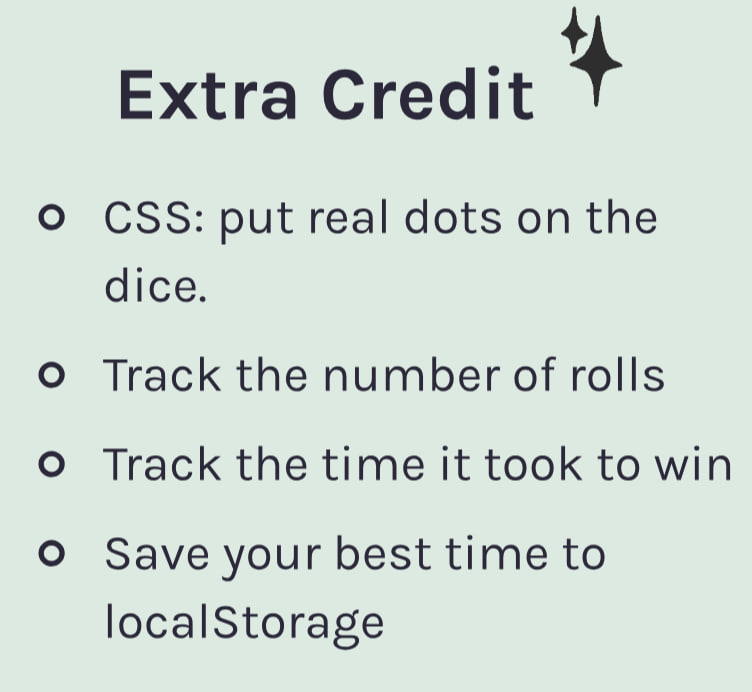
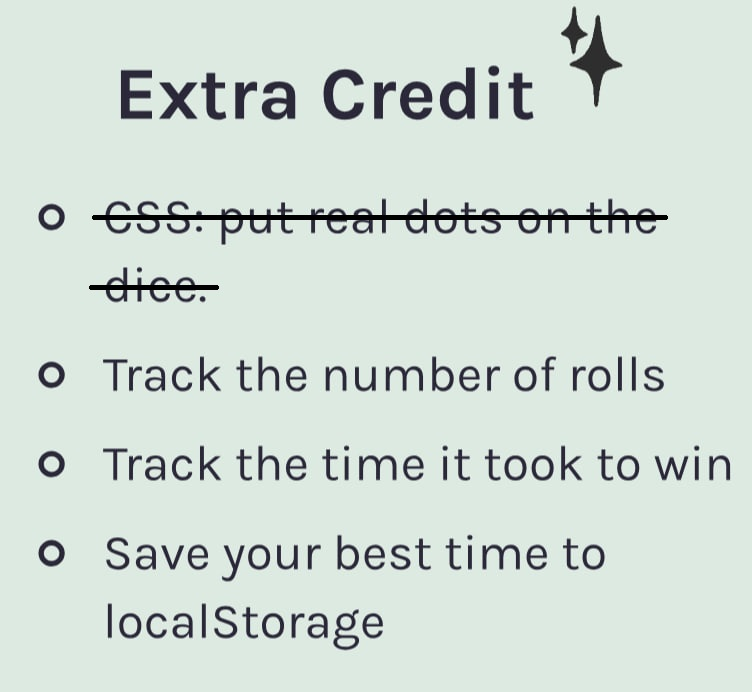
Add die faces on dice

Changed region(s): [[0.1223, 0.3035, 0.887, 0.3338], [0.1223, 0.3945, 0.3059, 0.4249]]

diff --git a/public/style.css b/public/style.css
@@ -7,6 +7,7 @@ body {
     background-color: #0B2434;
     padding: 20px;
     font-family: 'Karla', sans-serif;
+    
 }
 
 main {
@@ -49,10 +50,38 @@ main {
     justify-content: center;
     align-items: center;
     cursor: pointer;
+
 }
 
-.die-num {
-    font-size: 2rem;
+.die1 {
+    background: url('./content/dice-1-svgrepo-com.svg') no-repeat;
+    background-size: cover;
+    background-position: center center; 
+}
+.die2 {
+    background: url('./content/dice-2-svgrepo-com.svg') no-repeat;
+    background-size: cover;
+    background-position: center center; 
+}
+.die3 {
+    background: url('./content/dice-3-svgrepo-com.svg') no-repeat;
+    background-size: cover;
+    background-position: center center; 
+}
+.die4 {
+    background: url('./content/dice-4-svgrepo-com.svg') no-repeat;
+    background-size: cover;
+    background-position: center center; 
+}
+.die5 {
+    background: url('./content/dice-5-svgrepo-com.svg') no-repeat;
+    background-size: cover;
+    background-position: center center; 
+}
+.die6 {
+    background: url('./content/dice-6-svgrepo-com.svg') no-repeat;
+    background-size: cover;
+    background-position: center center; 
 }
 
 .roll-dice {

diff --git a/src/Die.js b/src/Die.js
@@ -6,11 +6,10 @@ export default function Die(props) {
     }
     return (
         <div 
-            className="die-face" 
+            className={"die-face"+ " " + "die" + props.value} 
             style={styles}
             onClick={props.holdDice}
         >
-            <h2 className="die-num">{props.value}</h2>
         </div>
     )
 }
